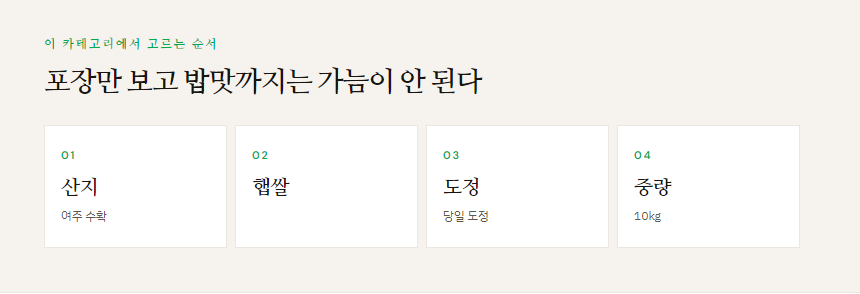
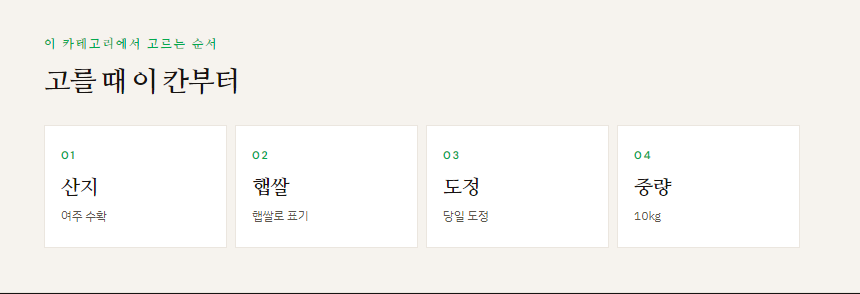
Fix detail-page photo sequence, empty cards, repeated copy, and module rhythm.

Changed region(s): [[0.0605, 0.2143, 0.5744, 0.3367], [0.0, 0.9796, 1.0, 1.0], [0.2721, 0.7041, 0.3628, 0.7653]]

diff --git a/lib/product/detailPageCategoryFlow.js b/lib/product/detailPageCategoryFlow.js
@@ -58,6 +58,7 @@ const FLOWS = {
       "상위 쌀 상세는 산지 → 품종·등급(있을 때만) → 햅쌀·생산년도 → 도정 → 중량 → 포장 → 짓는 법 → 원재료 순으로 고른다.",
     doNotInvent: ["품종", "등급", "인증", "생산년도"],
     intentKicker: "이 카테고리에서 고르는 순서",
+    chooseTitle: "고를 때 이 칸부터",
     uspKicker: "소재 · 재료",
     uspTitle: "포장 안에서 대조하는 항목",
     specKicker: "항목",
@@ -81,7 +82,7 @@ const FLOWS = {
         key: "harvest",
         label: "햅쌀",
         match: /햅쌀|생산년도|20(2[0-9]|3[0-9])년/,
-        infer: (input) => (/햅쌀/.test(`${input.productName || ""}`) ? "햅쌀" : ""),
+        infer: (input) => (/햅쌀/.test(`${input.productName || ""}`) ? "햅쌀로 표기" : ""),
       },
       { key: "mill", label: "도정", match: /도정/ },
       {
@@ -110,6 +111,7 @@ const FLOWS = {
       "상위 원두 상세는 원산지·블렌드 → 로스팅 → 분쇄 → 중량 → 추출 → 보관 순으로 고른다.",
     doNotInvent: ["원산지", "산지 배합 비율", "인증"],
     intentKicker: "이 카테고리에서 고르는 순서",
+    chooseTitle: "고를 때 이 칸부터",
     uspKicker: "소재 · 재료",
     uspTitle: "내려 마시기 전에 대조하는 항목",
     specKicker: "항목",
@@ -130,8 +132,12 @@ const FLOWS = {
         label: "원두",
         material: true,
         match: /블렌드|싱글|생두|아라비카|로부스타|원두/,
-        infer: (input) =>
-          /원두|블렌드|커피/.test(`${input.productName || ""}`) ? "원두" : "",
+        infer: (input) => {
+          const name = String(input.productName || "");
+          const blend = name.match(/([가-힣A-Za-z0-9 ]*블렌드)/);
+          if (blend) return blend[1].replace(/\s+/g, " ").trim();
+          return /원두|블렌드|커피/.test(name) ? "원두 포장" : "";
+        },
       },
       { key: "roast", label: "로스팅", material: true, match: /로스트|로스팅|배전|중배전|약배전|강배전/ },
       { key: "grind", label: "분쇄", match: /분쇄|그라인드/ },
@@ -152,6 +158,7 @@ const FLOWS = {
     analysis: "상위 가구 상세는 소재 → 크기 → 하중 → 조립 → 마감 순으로 고른다.",
     doNotInvent: ["하중", "인증", "원산지"],
     intentKicker: "이 카테고리에서 고르는 순서",
+    chooseTitle: "고를 때 이 칸부터",
     uspKicker: "소재 · 자재",
     uspTitle: "놓기 전에 대조하는 항목",
     specKicker: "항목",
@@ -174,6 +181,7 @@ const FLOWS = {
     analysis: "상위 시술 상세는 시술 → 시간 → 재료 → 손상·유지 순으로 고른다.",
     doNotInvent: ["인증"],
     intentKicker: "이 카테고리에서 고르는 순서",
+    chooseTitle: "고를 때 이 칸부터",
     uspKicker: "재료",
     uspTitle: "시술 전에 대조하는 항목",
     specKicker: "항목",
@@ -195,6 +203,7 @@ const FLOWS = {
     analysis: "상위 음식 상세는 원재료 → 조리 → 양 → 보관 순으로 고른다.",
     doNotInvent: ["원산지", "인증"],
     intentKicker: "이 카테고리에서 고르는 순서",
+    chooseTitle: "고를 때 이 칸부터",
     uspKicker: "소재 · 재료",
     uspTitle: "먹기 전에 대조하는 항목",
     specKicker: "항목",
@@ -221,6 +230,7 @@ const FLOWS = {
     analysis: "카테고리 분석이 없으면 넣은 특징만, 고르는 사람 순서로 나열한다.",
     doNotInvent: ["인증", "1위"],
     intentKicker: "고를 때 보는 순서",
+    chooseTitle: "고를 때 이 칸부터",
     uspKicker: "소재 · 재료",
     uspTitle: "반복해서 확인하는 지점",
     specKicker: "항목",
@@ -320,7 +330,9 @@ export function buildDetailPageCategoryListing(input = {}) {
     dashLine(s.label, s.value)
   );
   const specRows = [
-    ...filled.map((s) => [s.label, s.value]),
+    ...filled
+      .map((s) => [s.label, s.value === s.label ? "" : s.value])
+      .filter((row) => row[0] && row[1]),
     ...leftover.map((f) => ["특징", f]),
   ].slice(0, 10);
   const restLines = filled.slice(4).map((s) => dashLine(s.label, s.value));
@@ -344,6 +356,7 @@ export function buildDetailPageCategoryListing(input = {}) {
     specRows,
     firstLook,
     intentKicker: flow.intentKicker,
+    chooseTitle: flow.chooseTitle || "고를 때 이 칸부터",
     uspKicker: flow.uspKicker,
     uspTitle: flow.uspTitle,
     specKicker: flow.specKicker,

diff --git a/lib/product/detailPageHtml.js b/lib/product/detailPageHtml.js
@@ -72,6 +72,8 @@ function h2Html(text, color = T.ink) {
 function imgFrame(src, alt, height, slot, caption, capColor = T.muted) {
   const dir = getDetailPagePhotoDirection(slot);
   const h = Number(height || dir.height) || 440;
+  const zoom = Math.max(1, Number(dir.zoom) || 1);
+  const pos = dir.objectPosition || "center";
   const cap = caption
     ? `<p style="margin:10px ${T.padX}px 0;font-size:13px;line-height:1.55;color:${capColor};letter-spacing:-0.01em;word-break:keep-all;">${esc(caption)}</p>`
     : "";
@@ -83,8 +85,8 @@ function imgFrame(src, alt, height, slot, caption, capColor = T.muted) {
       : "";
     return `<table ${attrs} data-photo-empty="1" style="width:100%;border-collapse:collapse;background:${T.wash};"><tr><td style="height:${h}px;vertical-align:middle;text-align:center;border-bottom:1px solid ${T.rule};padding:28px ${T.padX}px;"><p style="margin:0 0 12px;font-size:11px;letter-spacing:0.18em;color:${T.muted};font-family:${T.familyKicker};">${esc(dir.plate || "")}</p><p style="margin:0;font-size:22px;line-height:1.28;letter-spacing:-0.03em;color:${T.ink};font-weight:650;word-break:keep-all;font-family:${T.familyDisplay};">${shot}</p>${hint}<p style="margin:16px 0 0;font-size:12px;letter-spacing:0.02em;color:${T.muted};">상품 사진 칸 · 생성 또는 업로드</p></td></tr></table>${cap}`;
   }
-  return `<div ${attrs} style="width:100%;overflow:hidden;background:${T.wash};">
-    <img src="${esc(src)}" alt="${esc(alt)}" style="display:block;width:100%;height:${h}px;object-fit:cover;object-position:center;" />
+  return `<div ${attrs} data-photo-crop="${esc(slot || "")}" style="width:100%;overflow:hidden;background:${T.wash};height:${h}px;">
+    <img src="${esc(src)}" alt="${esc(alt)}" style="display:block;width:100%;height:${Math.round(h * zoom)}px;margin-top:${Math.round((h - h * zoom) * 0.35)}px;object-fit:cover;object-position:${esc(pos)};" />
   </div>${cap}`;
 }
 
@@ -240,10 +242,9 @@ function renderSection(section, photoSrc, accent, productName, caption) {
   if (type === "usp") {
     return wrapSection({
       type,
-      layout: "usp-cards",
+      layout: "usp-rows",
       bg: T.paper,
-      photo,
-      inner: `${kickerHtml(section.kicker, accent)}${h2Html(section.title)}${uspCards(section.bullets, accent)}`,
+      inner: `${kickerHtml(section.kicker, accent)}${h2Html(section.title)}${featureList(section.bullets, accent)}`,
     });
   }
 
@@ -281,10 +282,10 @@ function renderSection(section, photoSrc, accent, productName, caption) {
     const compare = comparePair(section.rows, accent);
     return wrapSection({
       type,
-      layout: compare ? "compare-pair" : "copy-block",
-      bg: T.paper,
-      photo,
-      inner: `${kickerHtml(section.kicker, accent)}${h2Html(section.title)}${compare || leadHtml(section.body)}`,
+      layout: compare ? "reason-band" : "copy-block",
+      bg: T.heroBg,
+      extra: `;color:${T.heroFg}`,
+      inner: `${kickerHtml(section.kicker, "rgba(247,244,239,0.62)")}${h2Html(section.title, T.heroFg)}${compare || leadHtml(section.body, "rgba(247,244,239,0.88)")}`,
     });
   }
 

diff --git a/lib/product/detailPagePhotos.js b/lib/product/detailPagePhotos.js
@@ -6,13 +6,13 @@ export const DETAIL_PAGE_MAX_PHOTOS = 8;
 
 /** 셀러가 고를 때 보는 컷 순서. */
 export const DETAIL_PAGE_PHOTO_DIRECTION = {
-  hero: { shot: "포장 앞면", hint: "세로 · 전체가 보이게", height: 680, plate: "01" },
-  intent: { shot: "고를 때 보는 면", hint: "멈추는 그 장면", height: 440, plate: "02" },
-  explain: { shot: "이유 한 장", hint: "설명과 같이 읽히게", height: 440, plate: "03" },
-  usp: { shot: "차이 한 점", hint: "카드 위에 얹히게", height: 440, plate: "04" },
-  observe: { shot: "손에 쥐거나 가까이", hint: "같은 포장 앞면을 가까이 크롭. 손·모델 없음", height: 520, plate: "05" },
-  feature: { shot: "디테일 한 점", hint: "같은 포장의 디테일 크롭. 다른 SKU로 바꾸지 않음", height: 480, plate: "06" },
-  scene: { shot: "쓰는 장면", hint: "식탁·현장", height: 520, plate: "07" },
+  hero: { shot: "포장 앞면", hint: "세로 · 전체가 보이게", height: 680, plate: "01", objectPosition: "50% 42%", zoom: 1 },
+  intent: { shot: "고를 때 보는 면", hint: "멈추는 그 장면", height: 440, plate: "02", objectPosition: "50% 40%", zoom: 1 },
+  explain: { shot: "이유 한 장", hint: "설명과 같이 읽히게", height: 440, plate: "03", objectPosition: "50% 50%", zoom: 1 },
+  usp: { shot: "차이 한 점", hint: "카드 위에 얹히게", height: 440, plate: "04", objectPosition: "50% 50%", zoom: 1 },
+  observe: { shot: "손에 쥐거나 가까이", hint: "같은 포장 앞면을 가까이 크롭. 손·모델 없음", height: 560, plate: "05", objectPosition: "50% 28%", zoom: 1.62 },
+  feature: { shot: "디테일 한 점", hint: "같은 포장의 디테일 크롭. 다른 SKU로 바꾸지 않음", height: 420, plate: "06", objectPosition: "50% 88%", zoom: 1.78 },
+  scene: { shot: "쓰는 장면", hint: "식탁·현장", height: 520, plate: "07", objectPosition: "50% 50%", zoom: 1 },
 };
 
 export const DETAIL_PAGE_PHOTO_SLOTS = [

diff --git a/lib/qa/detailPageDesignerPanel30.js b/lib/qa/detailPageDesignerPanel30.js
@@ -155,17 +155,21 @@ export function measureDetailPageForDesigners(pack, html = "", photoCount = 0, s
       (types.has("usp") && types.has("spec") ? 24 : 10) +
       (htmlStr.includes("data-ui=\"section-layouts\"") ? 16 : 8) +
       (htmlStr.includes('data-layout="choose-steps"') ? 4 : 0) +
-      (htmlStr.includes('data-layout="compare-pair"') ? 2 : 0) +
+      (htmlStr.includes('data-layout="usp-rows"') || htmlStr.includes('data-layout="usp-cards"') ? 3 : 0) +
+      (htmlStr.includes('data-layout="reason-band"') || htmlStr.includes('data-layout="compare-pair"') ? 2 : 0) +
       (mallReady ? 6 : 0) +
       (firstGlance ? 1 : 0)
   );
   const bodyParas = (htmlStr.match(/data-role="lead"/g) || []).length;
   const visualLayouts = [
     'data-layout="usp-cards"',
+    'data-layout="usp-rows"',
     'data-layout="spec-sheet"',
     'data-layout="choose-steps"',
     'data-layout="compare-pair"',
+    'data-layout="reason-band"',
     'data-layout="observe-quote"',
+    'data-layout="feature-list"',
   ].filter((token) => htmlStr.includes(token)).length;
   const density = clamp(
     visualLayouts * 12 +

diff --git a/lib/product/detailPageEngine.js b/lib/product/detailPageEngine.js
@@ -306,14 +306,14 @@ export function buildDetailPageFallbackPack(input = {}) {
     intent: {
       type: "intent",
       kicker: listing.intentKicker,
-      title: intent.slice(0, 42),
+      title: listing.chooseTitle || "고를 때 이 칸부터",
       body: "",
       bullets: stepLines,
     },
     problem: {
       type: "intent",
       kicker: listing.intentKicker,
-      title: intent.slice(0, 42),
+      title: listing.chooseTitle || "고를 때 이 칸부터",
       body: "",
       bullets: stepLines,
     },
@@ -323,7 +323,7 @@ export function buildDetailPageFallbackPack(input = {}) {
       title: "숫자보다, 실제로 어디에 쓰이는지",
       body: "",
       rows: [
-        ["막히는 점", intent.slice(0, 36)],
+        ["이 카테고리", listing.label],
         ["먼저 볼 것", listing.firstLook || feats[0]],
       ],
     },
